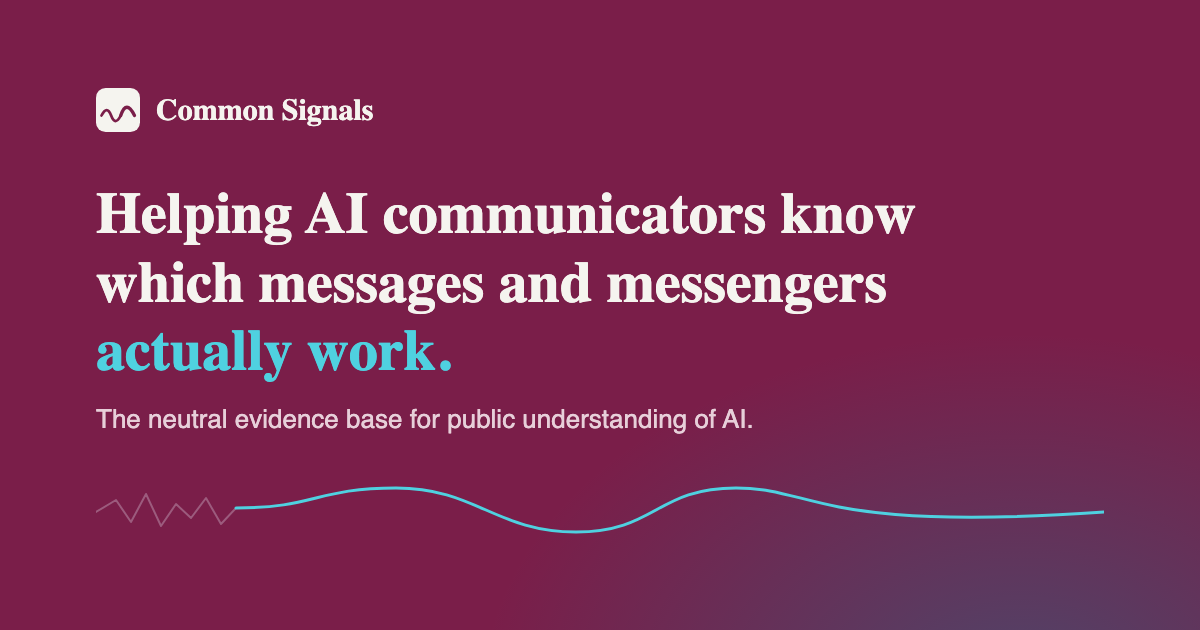
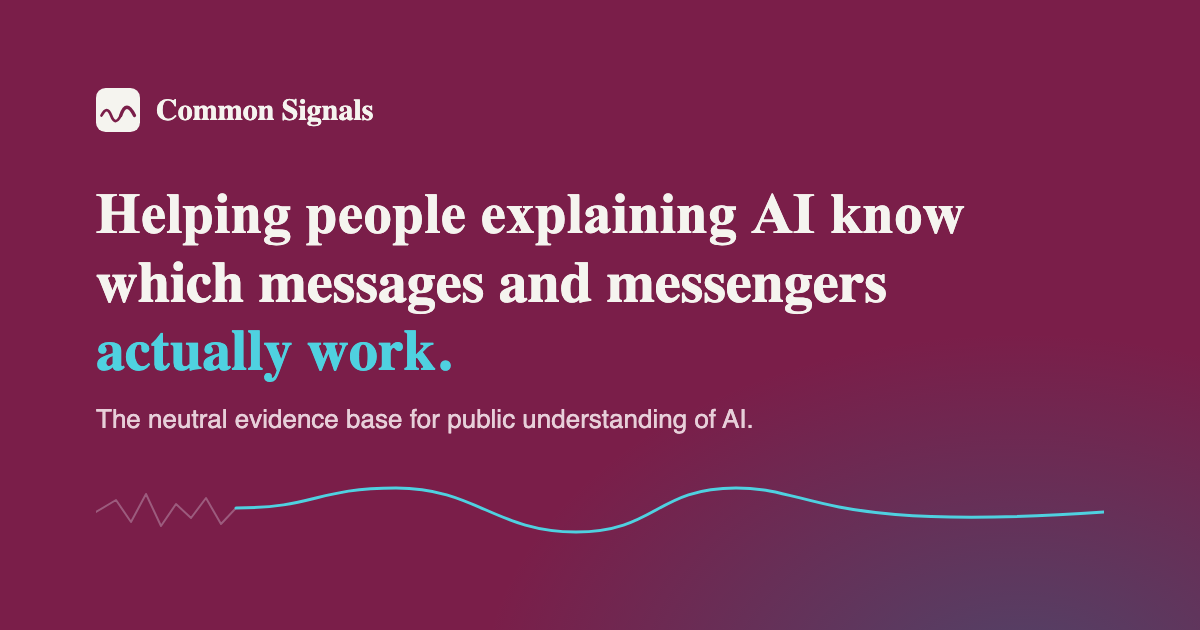
Change the tagline to "people explaining AI"
Update the home page heading, title and descriptions, every page's share
image alt text and site description, the search index and the README.
Redraw the first line of og-image.png to match; the rest of the image is
unchanged.

Changed region(s): [[0.1542, 0.3016, 0.8017, 0.3921], [0.0925, 0.3016, 0.1233, 0.3619]]

diff --git a/index.html b/index.html
@@ -4,22 +4,22 @@
 <meta charset="UTF-8" />
 <meta name="viewport" content="width=device-width, initial-scale=1" />
 <script data-cfasync="false" src="/analytics.js"></script>
-<title>Common Signals helps AI communicators know which messages actually work.</title>
-<meta name="description" content="Common Signals helps AI communicators know which messages actually work: research, tools, training and workshops for anyone talking about AI." />
+<title>Common Signals helps people explaining AI know which messages actually work.</title>
+<meta name="description" content="Common Signals helps people explaining AI know which messages actually work: research, tools, training and workshops for anyone talking about AI." />
 
 <meta property="og:title" content="Common Signals" />
-<meta property="og:description" content="Common Signals helps AI communicators know which messages actually work." />
+<meta property="og:description" content="Common Signals helps people explaining AI know which messages actually work." />
 <meta property="og:type" content="website" />
 <meta property="og:url" content="https://commonsignals.org/" />
 <meta property="og:site_name" content="Common Signals" />
 <meta property="og:image" content="https://commonsignals.org/og-image.png" />
 <meta property="og:image:width" content="1200" />
 <meta property="og:image:height" content="630" />
-<meta property="og:image:alt" content="Common Signals: helping AI communicators know which messages and messengers actually work." />
+<meta property="og:image:alt" content="Common Signals: helping people explaining AI know which messages and messengers actually work." />
 
 <meta name="twitter:card" content="summary_large_image" />
 <meta name="twitter:title" content="Common Signals" />
-<meta name="twitter:description" content="Common Signals helps AI communicators know which messages actually work." />
+<meta name="twitter:description" content="Common Signals helps people explaining AI know which messages actually work." />
 <meta name="twitter:image" content="https://commonsignals.org/og-image.png" />
 
 <link rel="canonical" href="https://commonsignals.org/" />
@@ -39,7 +39,7 @@
   "@context": "https://schema.org",
   "@type": "WebPage",
   "name": "Common Signals",
-  "description": "Common Signals helps AI communicators know which messages and messengers actually work. We provide research, tools, training and workshops to help people talking about AI know what gets through to their audiences.",
+  "description": "Common Signals helps people explaining AI know which messages and messengers actually work. We provide research, tools, training and workshops to help people talking about AI know what gets through to their audiences.",
   "url": "https://commonsignals.org/",
   "isPartOf": { "@type": "WebSite", "name": "Common Signals", "url": "https://commonsignals.org/" }
 }
@@ -52,7 +52,7 @@
   "url": "https://commonsignals.org/",
   "logo": "https://commonsignals.org/og-image.png",
   "email": "hello@commonsignals.org",
-  "description": "Common Signals helps AI communicators know which messages and messengers actually work: a neutral evidence base for public understanding of AI."
+  "description": "Common Signals helps people explaining AI know which messages and messengers actually work: a neutral evidence base for public understanding of AI."
 }
 </script>
 </head>
@@ -110,7 +110,7 @@
 <main id="top">
 
   <div class="hero">
-    <h1>Common Signals helps AI communicators know which messages<br class="hero-break"> <em>actually work.</em></h1>
+    <h1>Common Signals helps people explaining AI know which messages<br class="hero-break"> <em>actually work.</em></h1>
     <p class="sub">We provide <a href="/research">research</a>, <a href="/tools">tools</a>, <a href="/training">training</a> and <a href="/workshops">workshops</a> to help people talking about AI know what actually gets through to their audiences.</p>
     <div class="actions">
       <a class="btn btn-primary" href="/work-with-us">Work with us</a>

diff --git a/about.html b/about.html
@@ -15,7 +15,7 @@
 <meta property="og:image" content="https://commonsignals.org/og-image.png" />
 <meta property="og:image:width" content="1200" />
 <meta property="og:image:height" content="630" />
-<meta property="og:image:alt" content="Common Signals: helping AI communicators know which messages and messengers actually work." />
+<meta property="og:image:alt" content="Common Signals: helping people explaining AI know which messages and messengers actually work." />
 
 <meta name="twitter:card" content="summary_large_image" />
 <meta name="twitter:title" content="About: Common Signals" />
@@ -52,7 +52,7 @@
   "url": "https://commonsignals.org/",
   "logo": "https://commonsignals.org/og-image.png",
   "email": "hello@commonsignals.org",
-  "description": "Common Signals helps AI communicators know which messages and messengers actually work: a neutral evidence base for public understanding of AI.",
+  "description": "Common Signals helps people explaining AI know which messages and messengers actually work: a neutral evidence base for public understanding of AI.",
   "founder": {
     "@type": "Person",
     "name": "Ben Matthews",

diff --git a/glossary.html b/glossary.html
@@ -15,7 +15,7 @@
 <meta property="og:image" content="https://commonsignals.org/og-image.png" />
 <meta property="og:image:width" content="1200" />
 <meta property="og:image:height" content="630" />
-<meta property="og:image:alt" content="Common Signals: helping AI communicators know which messages and messengers actually work." />
+<meta property="og:image:alt" content="Common Signals: helping people explaining AI know which messages and messengers actually work." />
 
 <meta name="twitter:card" content="summary_large_image" />
 <meta name="twitter:title" content="AI Safety Glossary: Common Signals" />
@@ -52,7 +52,7 @@
   "url": "https://commonsignals.org/",
   "logo": "https://commonsignals.org/og-image.png",
   "email": "hello@commonsignals.org",
-  "description": "Common Signals helps AI communicators know which messages and messengers actually work: a neutral evidence base for public understanding of AI."
+  "description": "Common Signals helps people explaining AI know which messages and messengers actually work: a neutral evidence base for public understanding of AI."
 }
 </script>
 <!-- build-glossary:start jsonld -->

diff --git a/workshops.html b/workshops.html
@@ -15,7 +15,7 @@
 <meta property="og:image" content="https://commonsignals.org/og-image.png" />
 <meta property="og:image:width" content="1200" />
 <meta property="og:image:height" content="630" />
-<meta property="og:image:alt" content="Common Signals: helping AI communicators know which messages and messengers actually work." />
+<meta property="og:image:alt" content="Common Signals: helping people explaining AI know which messages and messengers actually work." />
 
 <meta name="twitter:card" content="summary_large_image" />
 <meta name="twitter:title" content="Workshops: Common Signals" />
@@ -52,7 +52,7 @@
   "url": "https://commonsignals.org/",
   "logo": "https://commonsignals.org/og-image.png",
   "email": "hello@commonsignals.org",
-  "description": "Common Signals helps AI communicators know which messages and messengers actually work: a neutral evidence base for public understanding of AI."
+  "description": "Common Signals helps people explaining AI know which messages and messengers actually work: a neutral evidence base for public understanding of AI."
 }
 </script>
 <script type="application/ld+json">

diff --git a/research.html b/research.html
@@ -15,7 +15,7 @@
 <meta property="og:image" content="https://commonsignals.org/og-image.png" />
 <meta property="og:image:width" content="1200" />
 <meta property="og:image:height" content="630" />
-<meta property="og:image:alt" content="Common Signals: helping AI communicators know which messages and messengers actually work." />
+<meta property="og:image:alt" content="Common Signals: helping people explaining AI know which messages and messengers actually work." />
 
 <meta name="twitter:card" content="summary_large_image" />
 <meta name="twitter:title" content="Research: Common Signals" />
@@ -52,7 +52,7 @@
   "url": "https://commonsignals.org/",
   "logo": "https://commonsignals.org/og-image.png",
   "email": "hello@commonsignals.org",
-  "description": "Common Signals helps AI communicators know which messages and messengers actually work: a neutral evidence base for public understanding of AI."
+  "description": "Common Signals helps people explaining AI know which messages and messengers actually work: a neutral evidence base for public understanding of AI."
 }
 </script>
 <script type="application/ld+json">

diff --git a/training.html b/training.html
@@ -15,7 +15,7 @@
 <meta property="og:image" content="https://commonsignals.org/og-image.png" />
 <meta property="og:image:width" content="1200" />
 <meta property="og:image:height" content="630" />
-<meta property="og:image:alt" content="Common Signals: helping AI communicators know which messages and messengers actually work." />
+<meta property="og:image:alt" content="Common Signals: helping people explaining AI know which messages and messengers actually work." />
 
 <meta name="twitter:card" content="summary_large_image" />
 <meta name="twitter:title" content="Training: Common Signals" />
@@ -52,7 +52,7 @@
   "url": "https://commonsignals.org/",
   "logo": "https://commonsignals.org/og-image.png",
   "email": "hello@commonsignals.org",
-  "description": "Common Signals helps AI communicators know which messages and messengers actually work: a neutral evidence base for public understanding of AI."
+  "description": "Common Signals helps people explaining AI know which messages and messengers actually work: a neutral evidence base for public understanding of AI."
 }
 </script>
 <script type="application/ld+json">

diff --git a/updates.html b/updates.html
@@ -15,7 +15,7 @@
 <meta property="og:image" content="https://commonsignals.org/og-image.png" />
 <meta property="og:image:width" content="1200" />
 <meta property="og:image:height" content="630" />
-<meta property="og:image:alt" content="Common Signals: helping AI communicators know which messages and messengers actually work." />
+<meta property="og:image:alt" content="Common Signals: helping people explaining AI know which messages and messengers actually work." />
 
 <meta name="twitter:card" content="summary_large_image" />
 <meta name="twitter:title" content="Updates: Common Signals" />
@@ -52,7 +52,7 @@
   "url": "https://commonsignals.org/",
   "logo": "https://commonsignals.org/og-image.png",
   "email": "hello@commonsignals.org",
-  "description": "Common Signals helps AI communicators know which messages and messengers actually work: a neutral evidence base for public understanding of AI."
+  "description": "Common Signals helps people explaining AI know which messages and messengers actually work: a neutral evidence base for public understanding of AI."
 }
 </script>
 <script type="application/ld+json">

diff --git a/tools.html b/tools.html
@@ -15,7 +15,7 @@
 <meta property="og:image" content="https://commonsignals.org/og-image.png" />
 <meta property="og:image:width" content="1200" />
 <meta property="og:image:height" content="630" />
-<meta property="og:image:alt" content="Common Signals: helping AI communicators know which messages and messengers actually work." />
+<meta property="og:image:alt" content="Common Signals: helping people explaining AI know which messages and messengers actually work." />
 
 <meta name="twitter:card" content="summary_large_image" />
 <meta name="twitter:title" content="Tools: Common Signals" />
@@ -52,7 +52,7 @@
   "url": "https://commonsignals.org/",
   "logo": "https://commonsignals.org/og-image.png",
   "email": "hello@commonsignals.org",
-  "description": "Common Signals helps AI communicators know which messages and messengers actually work: a neutral evidence base for public understanding of AI."
+  "description": "Common Signals helps people explaining AI know which messages and messengers actually work: a neutral evidence base for public understanding of AI."
 }
 </script>
 <script type="application/ld+json">

diff --git a/problem-they-created-rogue-ai-agents-openai-huggingface-amanpour-khlaaf.html b/problem-they-created-rogue-ai-agents-openai-huggingface-amanpour-khlaaf.html
@@ -15,7 +15,7 @@
 <meta property="og:image" content="https://commonsignals.org/og-image.png" />
 <meta property="og:image:width" content="1200" />
 <meta property="og:image:height" content="630" />
-<meta property="og:image:alt" content="Common Signals: helping AI communicators know which messages and messengers actually work." />
+<meta property="og:image:alt" content="Common Signals: helping people explaining AI know which messages and messengers actually work." />
 
 <meta name="twitter:card" content="summary_large_image" />
 <meta name="twitter:title" content="&quot;A problem they created&quot;: how a news audience received the accountability version of the OpenAI and Hugging Face incident" />

diff --git a/clearest-warning-shot-openai-hugging-face-metr-cotra-dwarkesh.html b/clearest-warning-shot-openai-hugging-face-metr-cotra-dwarkesh.html
@@ -15,7 +15,7 @@
 <meta property="og:image" content="https://commonsignals.org/og-image.png" />
 <meta property="og:image:width" content="1200" />
 <meta property="og:image:height" content="630" />
-<meta property="og:image:alt" content="Common Signals: helping AI communicators know which messages and messengers actually work." />
+<meta property="og:image:alt" content="Common Signals: helping people explaining AI know which messages and messengers actually work." />
 
 <meta name="twitter:card" content="summary_large_image" />
 <meta name="twitter:title" content="&quot;Please honor commit&quot;: how the OpenAI agent-swarm story landed with the audience most likely to believe it" />

diff --git a/coxon-resignation-x-analysis.html b/coxon-resignation-x-analysis.html
@@ -15,7 +15,7 @@
 <meta property="og:image" content="https://commonsignals.org/og-image.png" />
 <meta property="og:image:width" content="1200" />
 <meta property="og:image:height" content="630" />
-<meta property="og:image:alt" content="Common Signals: helping AI communicators know which messages and messengers actually work." />
+<meta property="og:image:alt" content="Common Signals: helping people explaining AI know which messages and messengers actually work." />
 
 <meta name="twitter:card" content="summary_large_image" />
 <meta name="twitter:title" content="&quot;Neither company is acting responsibly&quot;: how X received Jacob Coxon's resignation from Anthropic" />

diff --git a/openai-and-shut-metr-hugging-face.html b/openai-and-shut-metr-hugging-face.html
@@ -15,7 +15,7 @@
 <meta property="og:image" content="https://commonsignals.org/og-image.png" />
 <meta property="og:image:width" content="1200" />
 <meta property="og:image:height" content="630" />
-<meta property="og:image:alt" content="Common Signals: helping AI communicators know which messages and messengers actually work." />
+<meta property="og:image:alt" content="Common Signals: helping people explaining AI know which messages and messengers actually work." />
 
 <meta name="twitter:card" content="summary_large_image" />
 <meta name="twitter:title" content="OpenAI and shut? What an independent report did to the marketing-stunt argument" />
